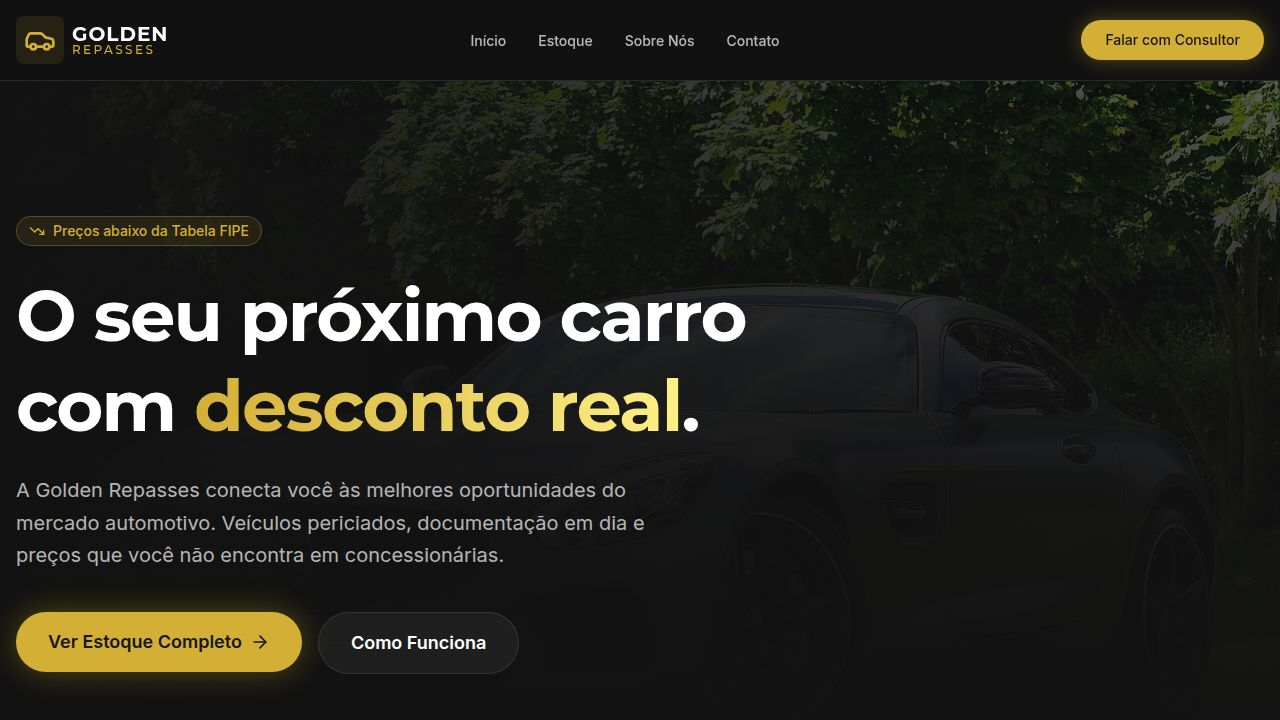
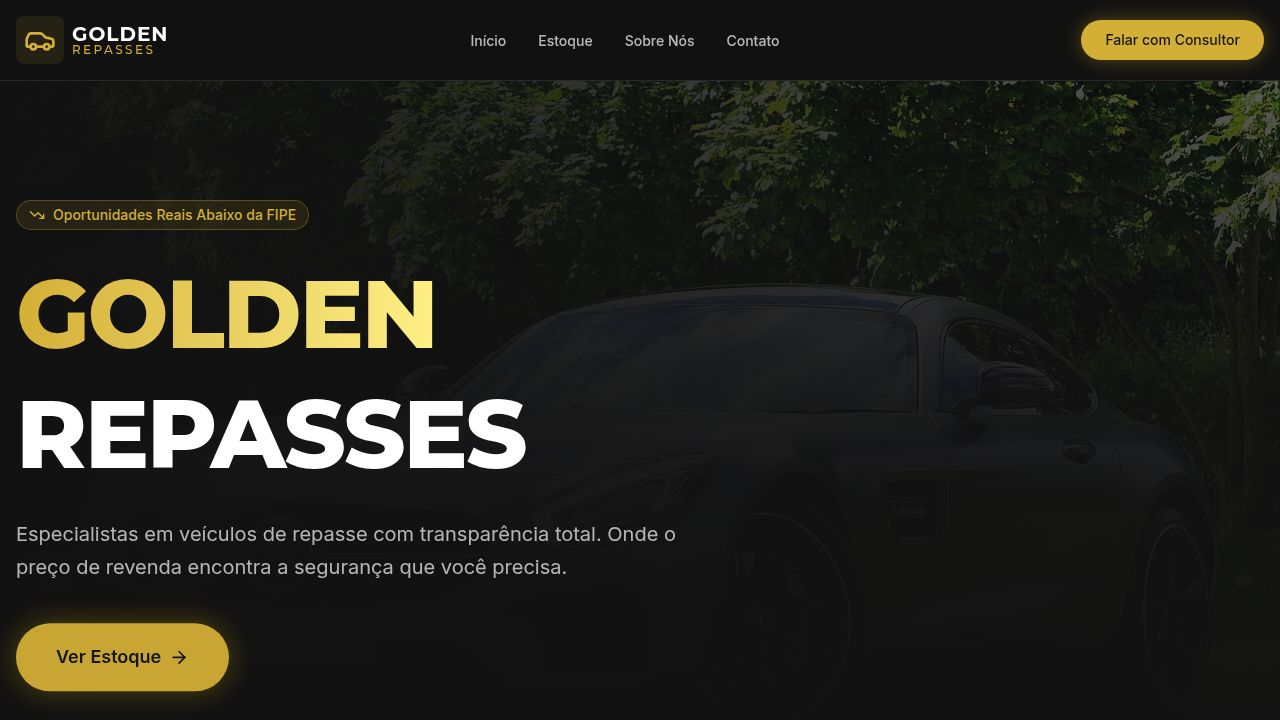
Update consultant contact information and location details
Update seller phone numbers and address in mock-cars.ts and Footer.tsx.

Replit-Commit-Author: Agent
Replit-Commit-Session-Id: 99d15505-04ba-47e3-b058-718954437266
Replit-Commit-Checkpoint-Type: full_checkpoint
Replit-Commit-Event-Id: 95f6041e-142c-496a-a5b2-25925e062988
Replit-Commit-Screenshot-Url: https://storage.googleapis.com/screenshot-production-us-central1/67b74c33-d9ae-4c40-91da-98f631eb36a5/99d15505-04ba-47e3-b058-718954437266/vfzJUZI
Replit-Helium-Checkpoint-Created: true

diff --git a/client/src/components/layout/Footer.tsx b/client/src/components/layout/Footer.tsx
@@ -42,7 +42,7 @@ export function Footer() {
             <ul className="space-y-4">
               <li className="flex items-start gap-3">
                 <Phone className="w-5 h-5 text-primary shrink-0" />
-                <span className="text-white/60 text-sm">(11) 99999-9999</span>
+                <span className="text-white/60 text-sm">(51) 9759-8587</span>
               </li>
               <li className="flex items-start gap-3">
                 <Mail className="w-5 h-5 text-primary shrink-0" />
@@ -50,7 +50,7 @@ export function Footer() {
               </li>
               <li className="flex items-start gap-3">
                 <MapPin className="w-5 h-5 text-primary shrink-0" />
-                <span className="text-white/60 text-sm">Av. das Nações Unidas, 1000<br/>São Paulo - SP</span>
+                <span className="text-white/60 text-sm">Avenida das Roseiras<br/>Charqueadas - RS</span>
               </li>
             </ul>
           </div>

diff --git a/client/src/data/mock-cars.ts b/client/src/data/mock-cars.ts
@@ -23,22 +23,22 @@ export const sellers: Seller[] = [
   {
     id: "1",
     name: "Matheus",
-    phone: "5511999999991"
+    phone: "555195898889"
   },
   {
     id: "2",
     name: "Eric",
-    phone: "5511999999992"
+    phone: "555197394408"
   },
   {
     id: "3",
     name: "Ezequiel",
-    phone: "5511999999993"
+    phone: "555195611247"
   },
   {
     id: "4",
     name: "Luiz André",
-    phone: "5511999999994"
+    phone: "555197598587"
   }
 ];
 
